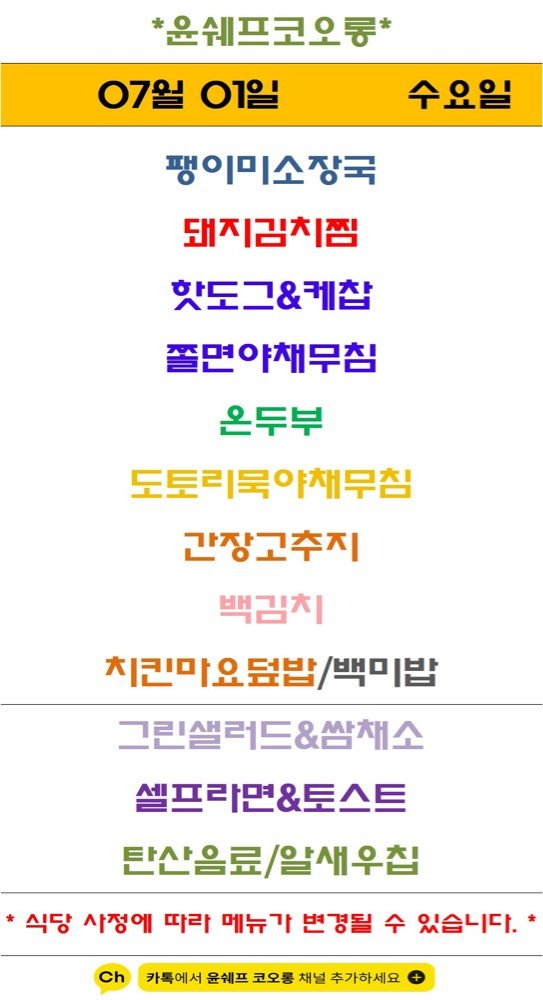
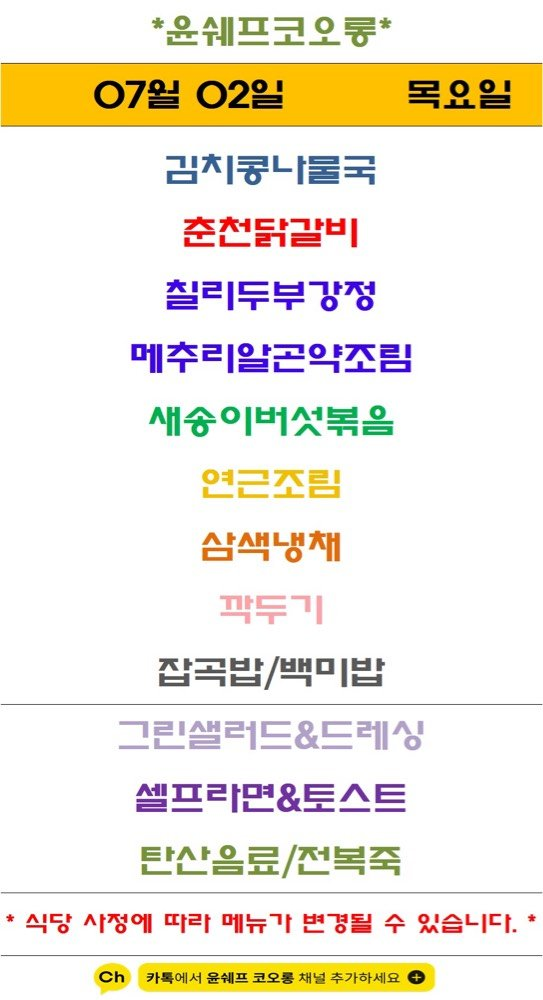
Update menu board assets

diff --git a/guro-menu/index.html b/guro-menu/index.html
@@ -32,7 +32,7 @@
   </header>
   <section class="meta">
     <div><small>기준 날짜</small><strong>2026년 7월 2일 목요일</strong></div>
-    <div><small>최종 갱신</small><strong>2026-07-02 09:14:04</strong></div>
+    <div><small>최종 갱신</small><strong>2026-07-02 09:19:01</strong></div>
     <div><small>등록 식당</small><strong>5개</strong></div>
   </section>
   <div class="notice">공개 카카오 채널의 메뉴 이미지를 자동 수집하고 OCR로 정리합니다. 텍스트에 오타가 있을 수 있으니 식단 이미지를 함께 확인해 주세요.</div>
@@ -103,8 +103,8 @@
           <a class="channel" href="https://pf.kakao.com/_Xxhxkhs" target="_blank" rel="noopener">원본 채널</a>
         </div>
         <img class="menu-image" src="./images/yoon-chef-kolon.png" alt="윤쉐프 코오롱 식단 이미지" loading="lazy">
-        <p class="message">최신 공개 식단 이미지의 텍스트입니다. 날짜는 원본 이미지를 확인해 주세요.</p>
-        <ul><li>팽이미소장국</li><li>댄지김지찜</li><li>핫도그&amp;케잡</li><li>졸면야재무침</li><li>온두부</li><li>간장고추지</li><li>치킨마요던밥/백미밥</li><li>그린설러드&amp;쌈채소</li><li>셀프라면&amp;토스트</li><li>탄산음료/알새우집</li></ul>
+        
+        <ul><li>칠리두부강정</li><li>메주리알곤약조림</li><li>새송이버섯볶음</li><li>삼색냉재</li><li>잡곡밥/백미밥</li><li>그린샐러드&amp;드레상</li><li>셀프라면&amp;토스트</li><li>탄산옴료/전복죽</li></ul>
       </article>
   </section>
   <section class="seo" aria-label="검색 정보">한신IT타워 구내식당 자연푸드 구내식당 더이츠푸드 벽산더이룸 윤쉐프 코오롱 한신IT타워 벽산디지털밸리7차 대륭포스트타워1차 벽산디지털밸리1차 코오롱싸이언스밸리1차 서울 구로구 디지털로 272 한신IT타워 지하1층 서울 구로구 디지털로33길 50 벽산디지털밸리7차 지하1층 서울 구로구 디지털로 288 대륭포스트타워1차 지하1층 서울 구로구 디지털로27길 24 벽산디지털밸리1차 지하1층 서울 구로구 디지털로34길 43 코오롱싸이언스밸리1차 지하1층</section>

diff --git a/menu-today/index.html b/menu-today/index.html
@@ -209,7 +209,7 @@
 
     <section class="meta-bar">
       <div class="meta-card"><div class="meta-label">기준 날짜</div><div class="meta-value">2026년 7월 2일 목요일</div></div>
-      <div class="meta-card"><div class="meta-label">최종 가져온 시간</div><div class="meta-value">2026-07-02 09:13:50</div></div>
+      <div class="meta-card"><div class="meta-label">최종 가져온 시간</div><div class="meta-value">2026-07-02 09:18:50</div></div>
       <div class="meta-card"><div class="meta-label">확인 완료</div><div class="meta-value">9개 식당</div></div>
       <div class="meta-card"><div class="meta-label">준비중</div><div class="meta-value">3개 채널</div></div>
     </section>
@@ -245,7 +245,7 @@
             <div class="sub">가산 어반워크2</div>
           </div>
         </div>
-        <div class="menu-inline-image"><img src="./images/babon.png" alt="밥(온) 구내식당 식단 이미지"></div><div class="info-note">오늘 메뉴 미수집 상태입니다.</div>
+        <div class="menu-inline-image"><img src="./images/babon.png" alt="밥(온) 구내식당 식단 이미지"></div><ul><li>흰쌀밥 / 검은쌀잡곡밥</li><li>바지락순두부탕</li><li>수제고구마야채튀김</li><li>of 「린장조림 볶음밥</li><li>매코가므터보&lt;</li><li>매콤해물떡볶이</li><li>정경재겉절이</li><li>개 도 이</li><li>배주끝설이김지</li><li>양배추샐러드 / 과일</li><li>훈제오리숙주볶음</li></ul>
       </article>
 
       <article class="restaurant-card">
